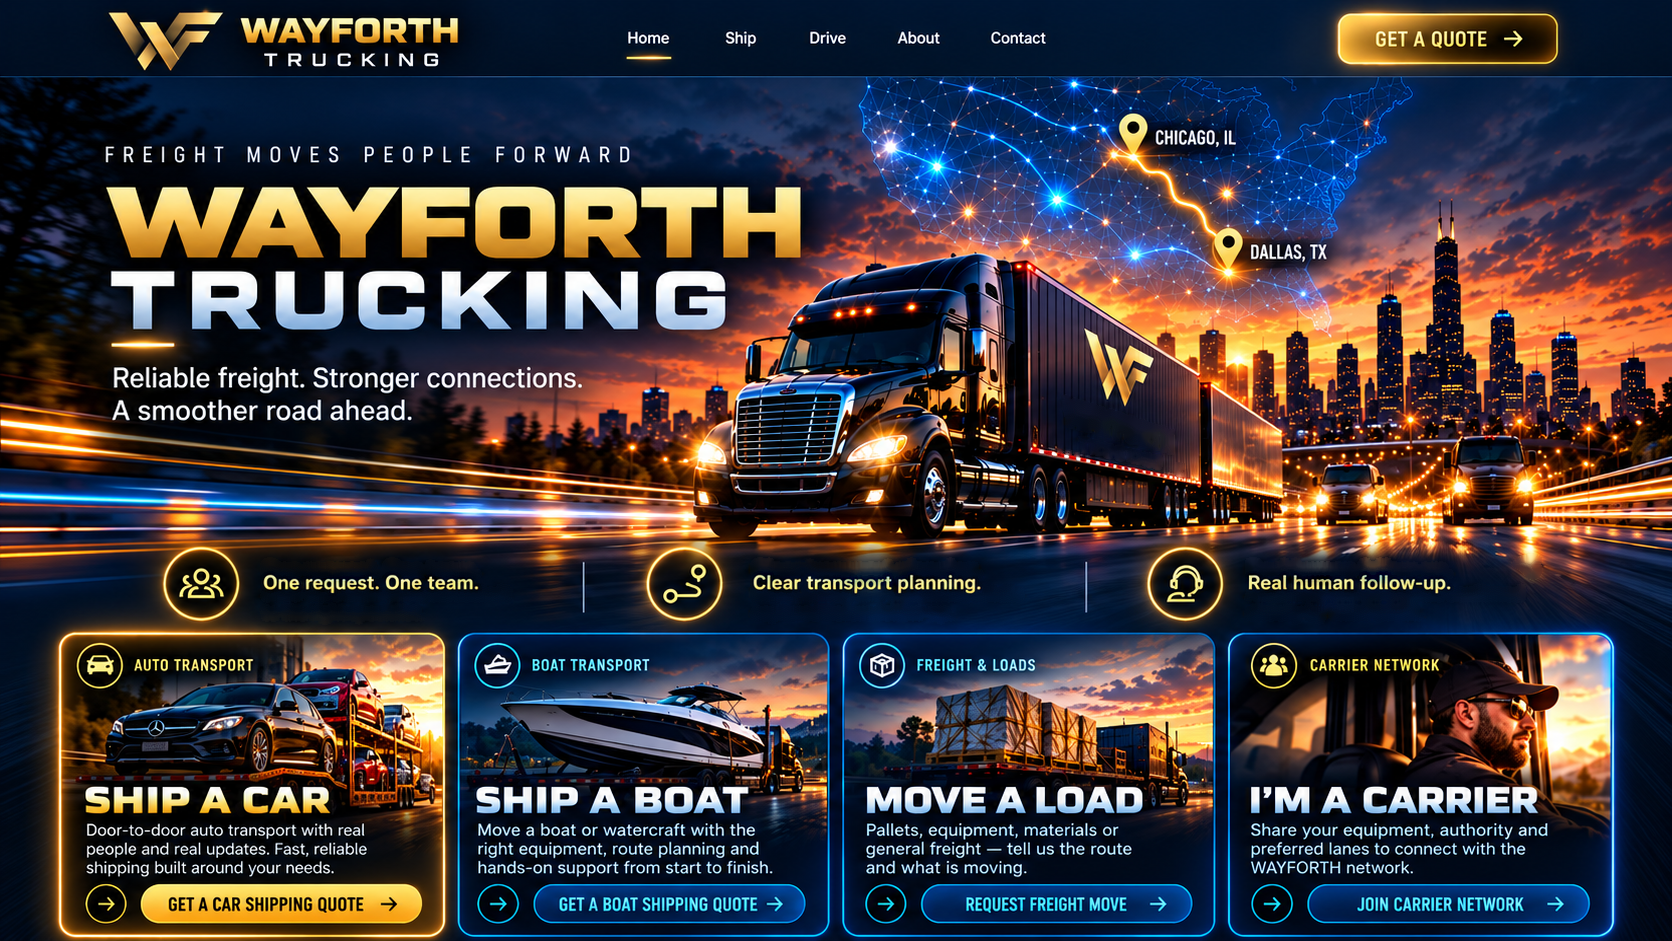
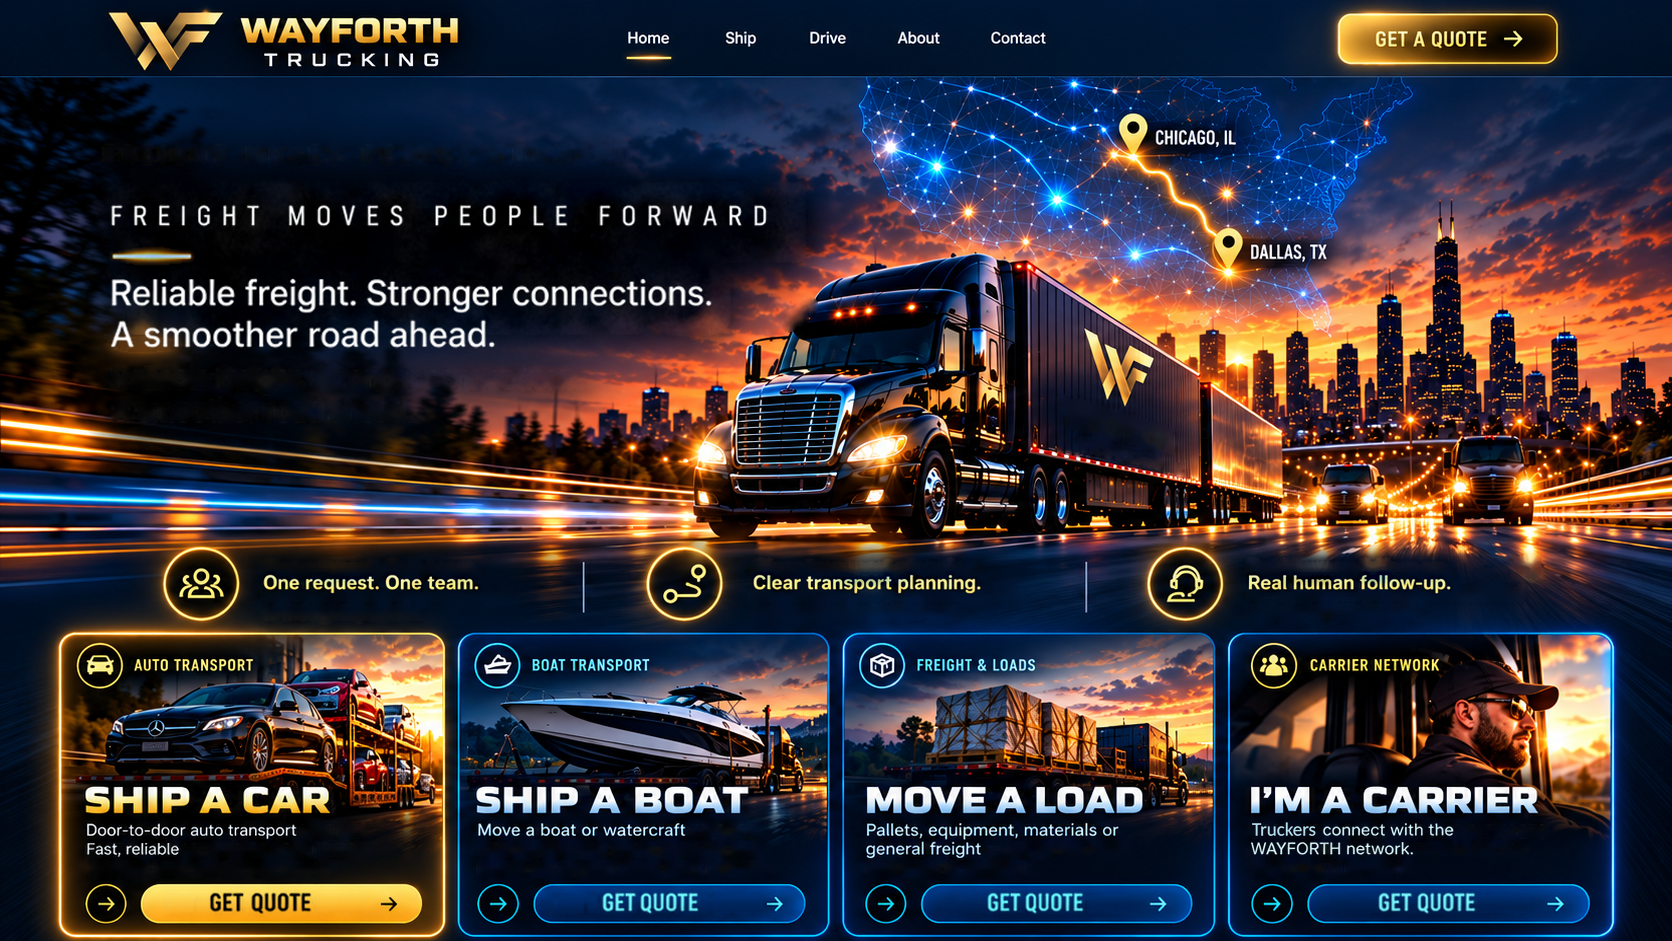
WAYFORTH V34 — Trucking Slogan Layout, Card Copy Trim & Get Quote Buttons
WAYFORTH V34 — Trucking Slogan Layout, Card Copy Trim & Get Quote Buttons

diff --git a/wayforth-trucking-v22.html b/wayforth-trucking-v22.html
@@ -217,6 +217,6 @@ function renderStep(){const def=serviceDefs[activeService],step=def.steps[stepIn
 function collectCurrent(){const fd=new FormData(form);for(const [k,v] of fd.entries())if(k!=='')values[k]=v}
 function currentValid(){statusEl.className='form-status';statusEl.textContent='';if(activeService==='car'&&stepIndex===1){const make=host.querySelector('[name="vehicleMake"]'),model=host.querySelector('[name="vehicleModel"]');if(make?.disabled||model?.disabled){statusEl.className='form-status show error';statusEl.textContent='Please wait while we load the vehicle makes and models for your selected year.';return false}}const inputs=[...host.querySelectorAll('input,select,textarea')].filter(el=>!el.disabled);let ok=true;inputs.forEach(el=>{el.setCustomValidity('');if(el.type==='date'&&el.value){if(el.value<todayISO())el.setCustomValidity('Please choose today or a future date.');else if(el.name==='deliveryDate'){const pick=host.querySelector('[name="pickupDate"]');if(pick&&pick.value&&el.value<pick.value)el.setCustomValidity('Delivery date cannot be before the pickup date.')}}if(el.name==='phone'&&el.value){const digits=el.value.replace(/\D/g,'');if(digits.length<7||digits.length>15)el.setCustomValidity('Please enter a valid phone / WhatsApp number (7 to 15 digits).')}if(el.required&&(el.type==='text'||el.tagName==='TEXTAREA')&&el.value&&!el.value.trim())el.setCustomValidity('Please fill out this field.');if(!el.checkValidity()){el.reportValidity();ok=false}});return ok}
 backBtn.addEventListener('click',()=>{if(stepIndex===0){closeService();return}collectCurrent();stepIndex--;renderStep()});
-nextBtn.addEventListener('click',async()=>{if(!currentValid())return;collectCurrent();const def=serviceDefs[activeService];if(stepIndex<def.steps.length-1){stepIndex++;renderStep();return}nextBtn.disabled=true;nextBtn.textContent='Sending…';statusEl.className='form-status';statusEl.textContent='';try{const response=await fetch('/api/trucking-inquiry',{method:'POST',headers:{'Content-Type':'application/json'},body:JSON.stringify({service:activeService,serviceLabel:def.title,source:'WAYFORTH Trucking V33',details:values})});const data=await response.json().catch(()=>({}));if(!response.ok)throw new Error(data.message||'Unable to send your request right now.');statusEl.className='form-status show ok';statusEl.textContent='Your request has been sent to WAYFORTH. A team member can review the details and follow up.';nextBtn.textContent='Sent ✓';setTimeout(closeService,2200)}catch(err){statusEl.className='form-status show error';statusEl.textContent=err.message||'Unable to send your request right now.';nextBtn.disabled=false;nextBtn.textContent='Submit Request →'}});
+nextBtn.addEventListener('click',async()=>{if(!currentValid())return;collectCurrent();const def=serviceDefs[activeService];if(stepIndex<def.steps.length-1){stepIndex++;renderStep();return}nextBtn.disabled=true;nextBtn.textContent='Sending…';statusEl.className='form-status';statusEl.textContent='';try{const response=await fetch('/api/trucking-inquiry',{method:'POST',headers:{'Content-Type':'application/json'},body:JSON.stringify({service:activeService,serviceLabel:def.title,source:'WAYFORTH Trucking V34',details:values})});const data=await response.json().catch(()=>({}));if(!response.ok)throw new Error(data.message||'Unable to send your request right now.');statusEl.className='form-status show ok';statusEl.textContent='Your request has been sent to WAYFORTH. A team member can review the details and follow up.';nextBtn.textContent='Sent ✓';setTimeout(closeService,2200)}catch(err){statusEl.className='form-status show error';statusEl.textContent=err.message||'Unable to send your request right now.';nextBtn.disabled=false;nextBtn.textContent='Submit Request →'}});
 </script>
 </body></html>
